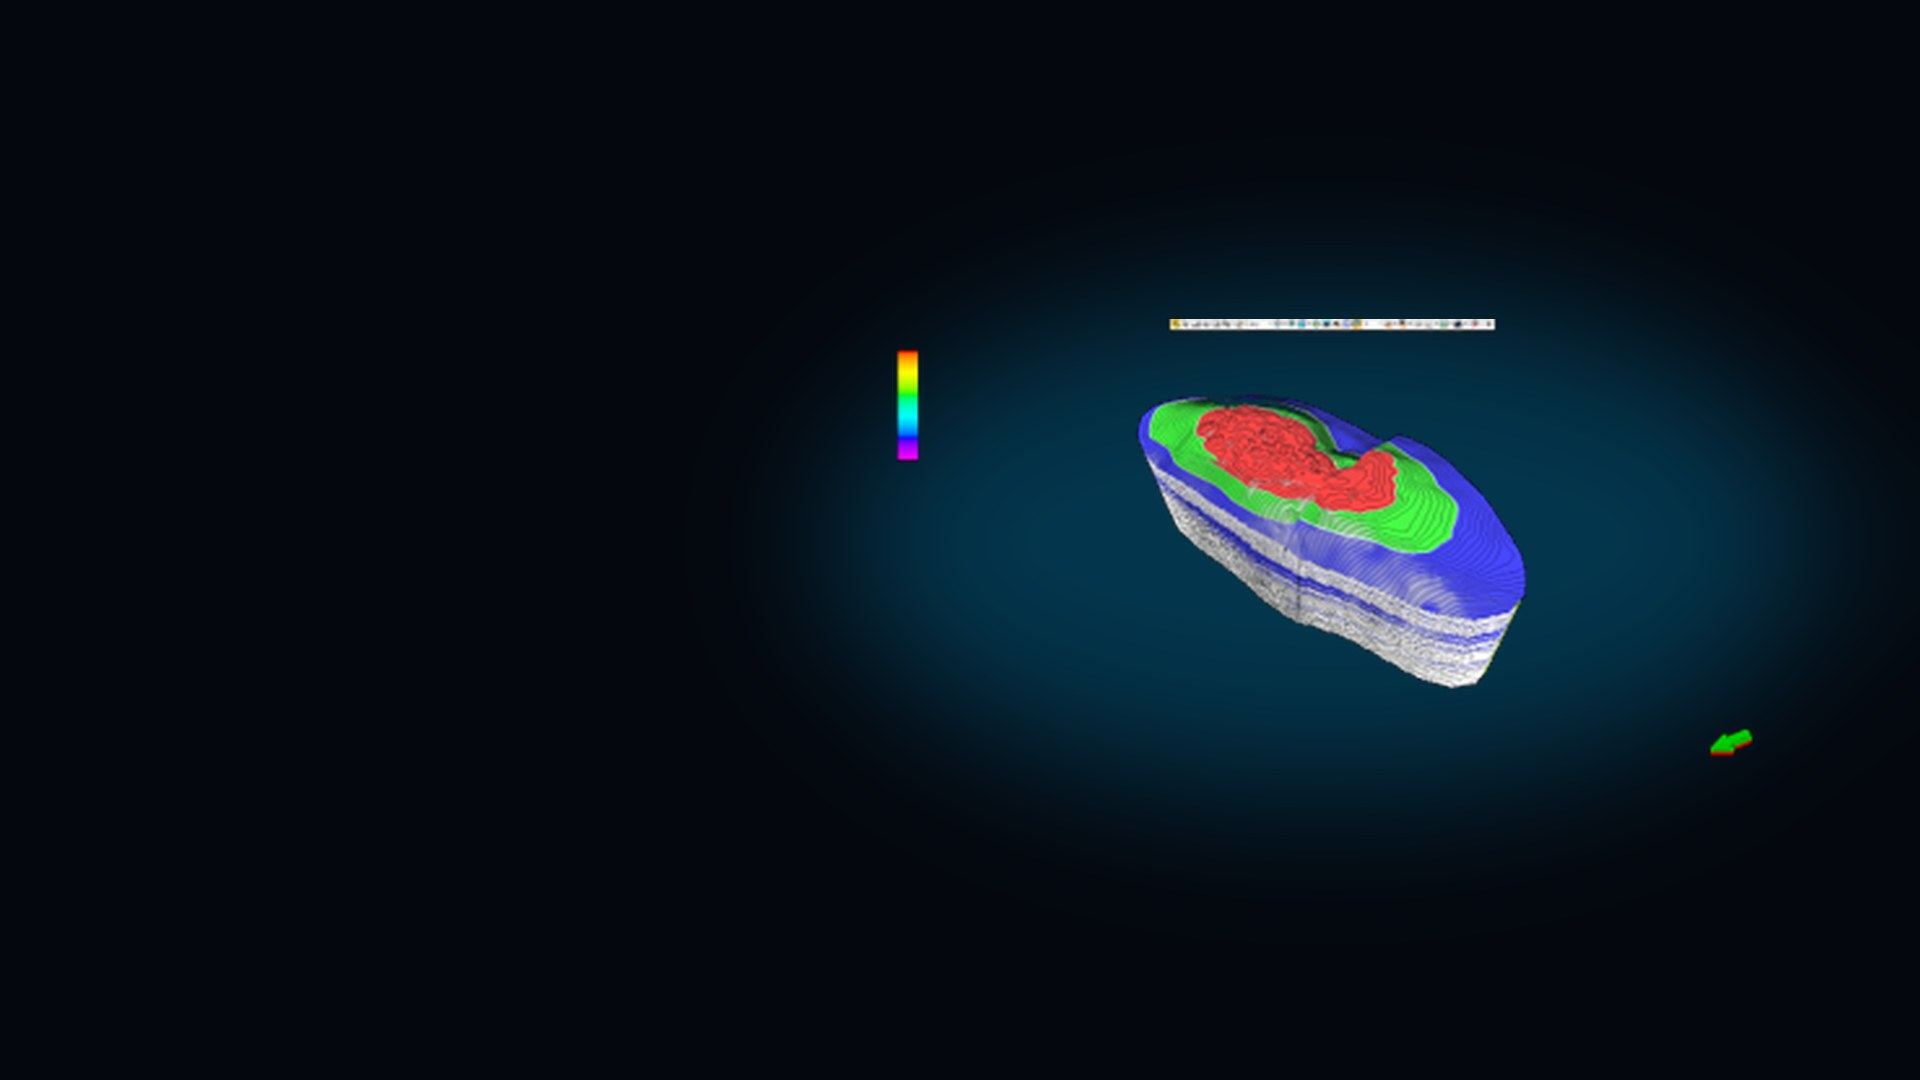
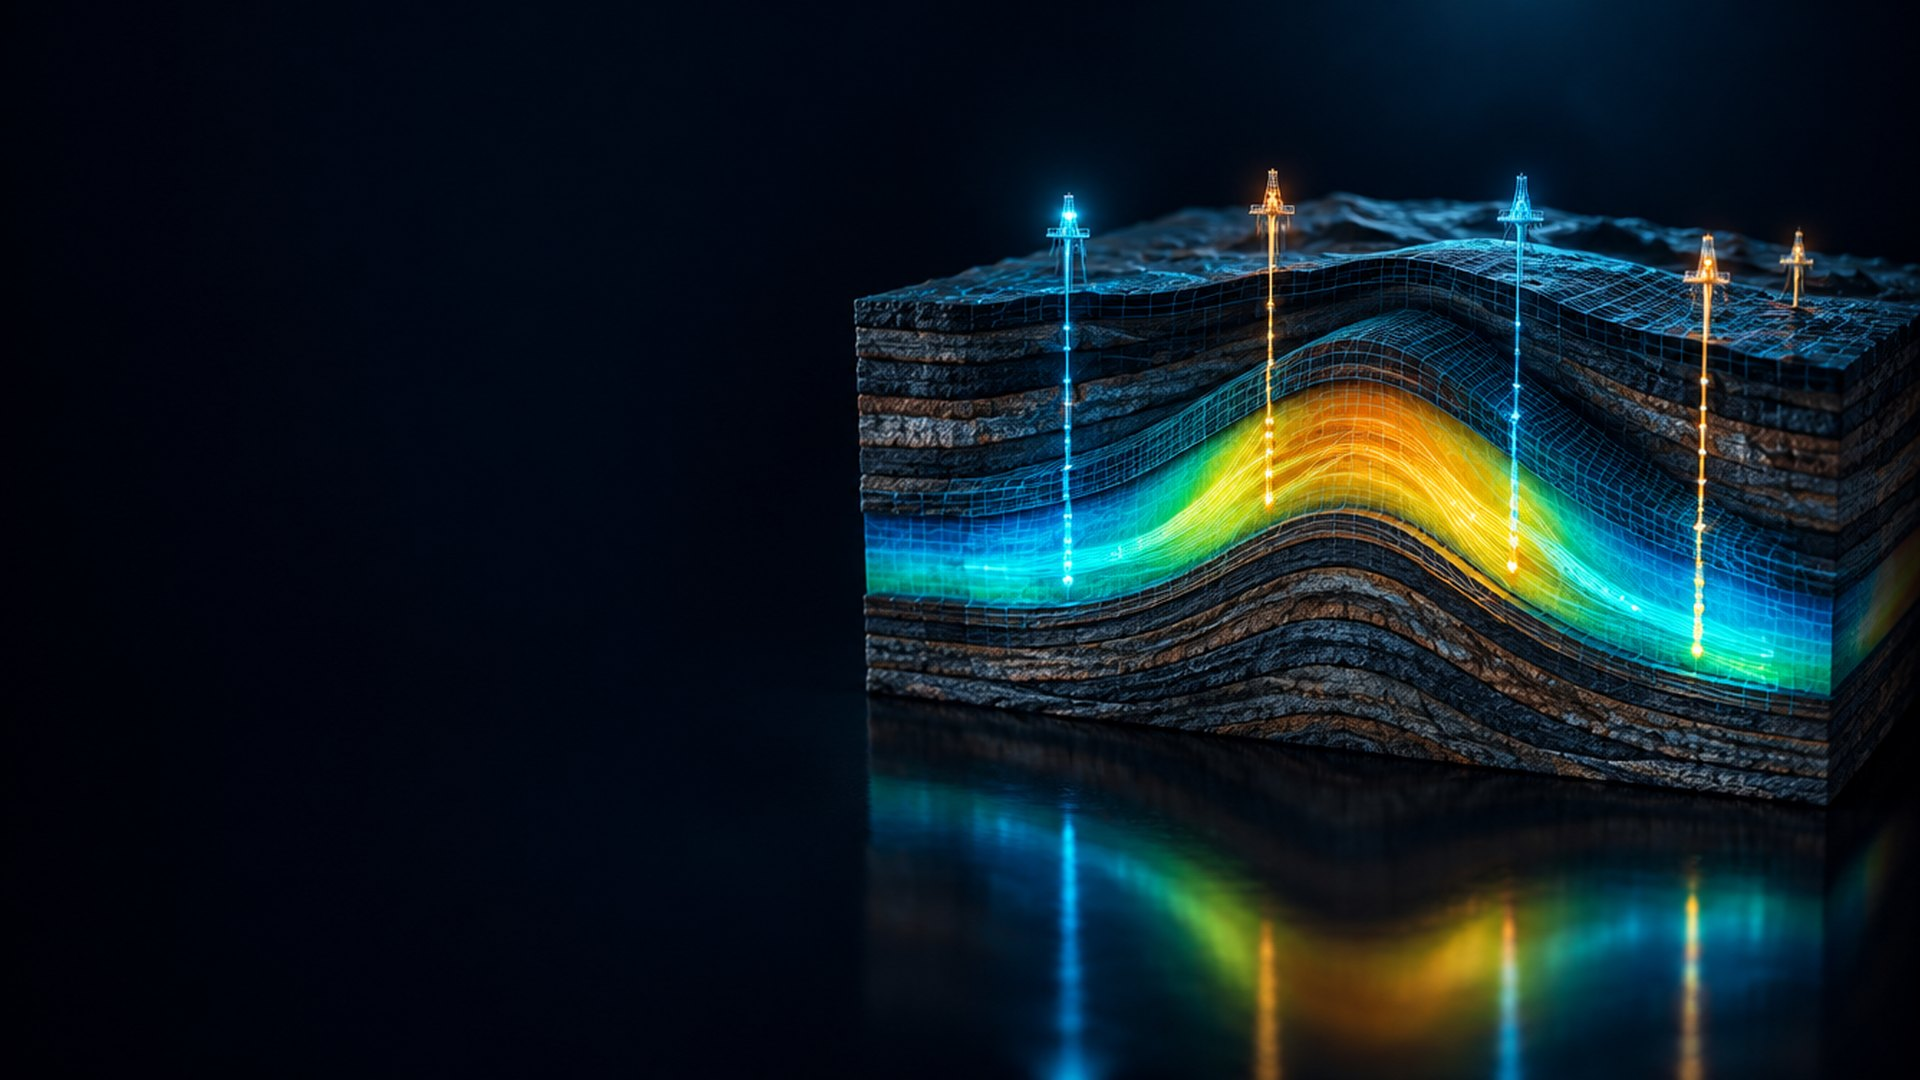
Модель пласта: свой кадр вместо скрина из Petrel
Скрин 3D-модели был 334 px и растянутый до 1920 читался как мыло (Адиль
17.09). Сгенерирован кадр в палитре показа: разрез пласта с антиклиналью,
карта свойств циан→янтарь, сетка модели, траектории скважин, отражение;
левая треть тёмная под текст. Прежний скрин сохранён в ИСХОДНИКИ.

diff --git a/сцена.html b/сцена.html
@@ -957,6 +957,9 @@ body.без_мыши, body.без_мыши *{cursor:none !important}
         /* 16.09 (Жанат Зарубековна): «чтобы не пустышки были — даже если системы
            нет, хотя бы текст». Карточки процессов добычи, у которых в показе
            нет своей системы: открываются описанием, без ролика и ссылки. */
+        /* 17.09 (Адиль): вместо скрина модели из Petrel (334 px, мыло) — сгенерированный
+           кадр в палитре показа: разрез пласта с антиклиналью, сеткой и скважинами;
+           скрин сохранён в ИСХОДНИКИ/кадры_gpt/модель_пласта_скрин_petrel.jpg */
         { имя:"Построение модели пласта", кадр:"медиа/кадры/модель_пласта.jpg", состояние:"слайды", хроно:"—", эффект:"Актуальная модель пласта — основа для точек бурения, ГТМ и заводнения", площадки:"Все площадки", ярлыки:[],
           описание:"Геологическая и гидродинамическая модели месторождения по геологическим, геофизическим и промысловым данным, настроенные по истории разработки. На модели — прогноз показателей, анализ выработки запасов и сравнение вариантов разработки." },
         { имя:"Цифровой мониторинг ТКРС", кадр:"медиа/кадры/ткрс.jpg", состояние:"слайды", хроно:"—", эффект:"Ход ремонта скважин виден онлайн", площадки:"Все площадки", ярлыки:[],

diff --git a/сцена_v2.html b/сцена_v2.html
@@ -1048,6 +1048,9 @@ body.процессы .веер{display:none}
         /* 16.09 (Жанат Зарубековна): «чтобы не пустышки были — даже если системы
            нет, хотя бы текст». Карточки процессов добычи, у которых в показе
            нет своей системы: открываются описанием, без ролика и ссылки. */
+        /* 17.09 (Адиль): вместо скрина модели из Petrel (334 px, мыло) — сгенерированный
+           кадр в палитре показа: разрез пласта с антиклиналью, сеткой и скважинами;
+           скрин сохранён в ИСХОДНИКИ/кадры_gpt/модель_пласта_скрин_petrel.jpg */
         { имя:"Построение модели пласта", кадр:"медиа/кадры/модель_пласта.jpg", состояние:"слайды", хроно:"—", эффект:"Актуальная модель пласта — основа для точек бурения, ГТМ и заводнения", площадки:"Все площадки", ярлыки:[],
           описание:"Геологическая и гидродинамическая модели месторождения по геологическим, геофизическим и промысловым данным, настроенные по истории разработки. На модели — прогноз показателей, анализ выработки запасов и сравнение вариантов разработки." },
         { имя:"Цифровой мониторинг ТКРС", кадр:"медиа/кадры/ткрс.jpg", состояние:"слайды", хроно:"—", эффект:"Ход ремонта скважин виден онлайн", площадки:"Все площадки", ярлыки:[],
